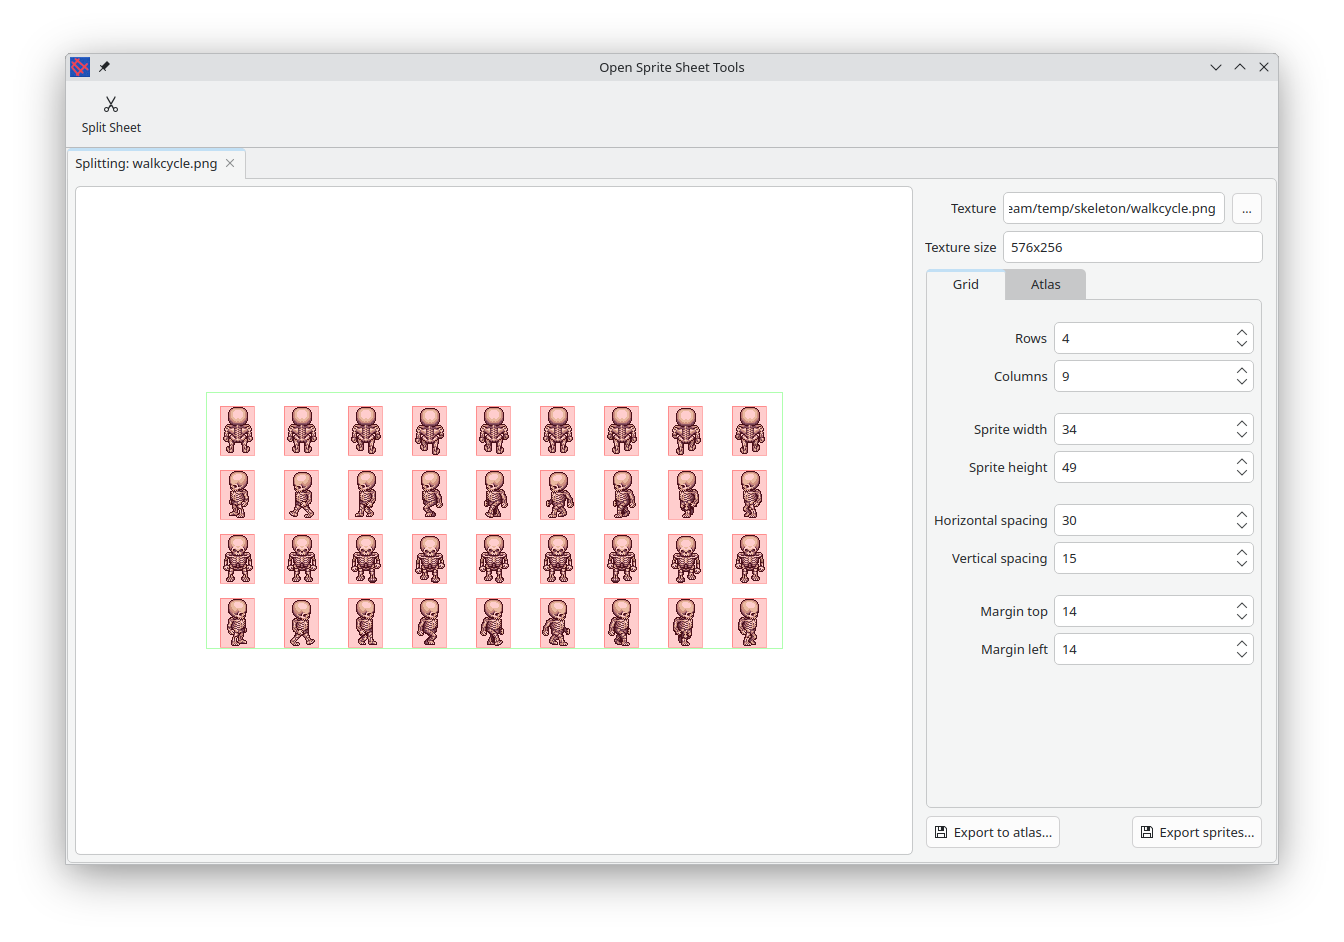
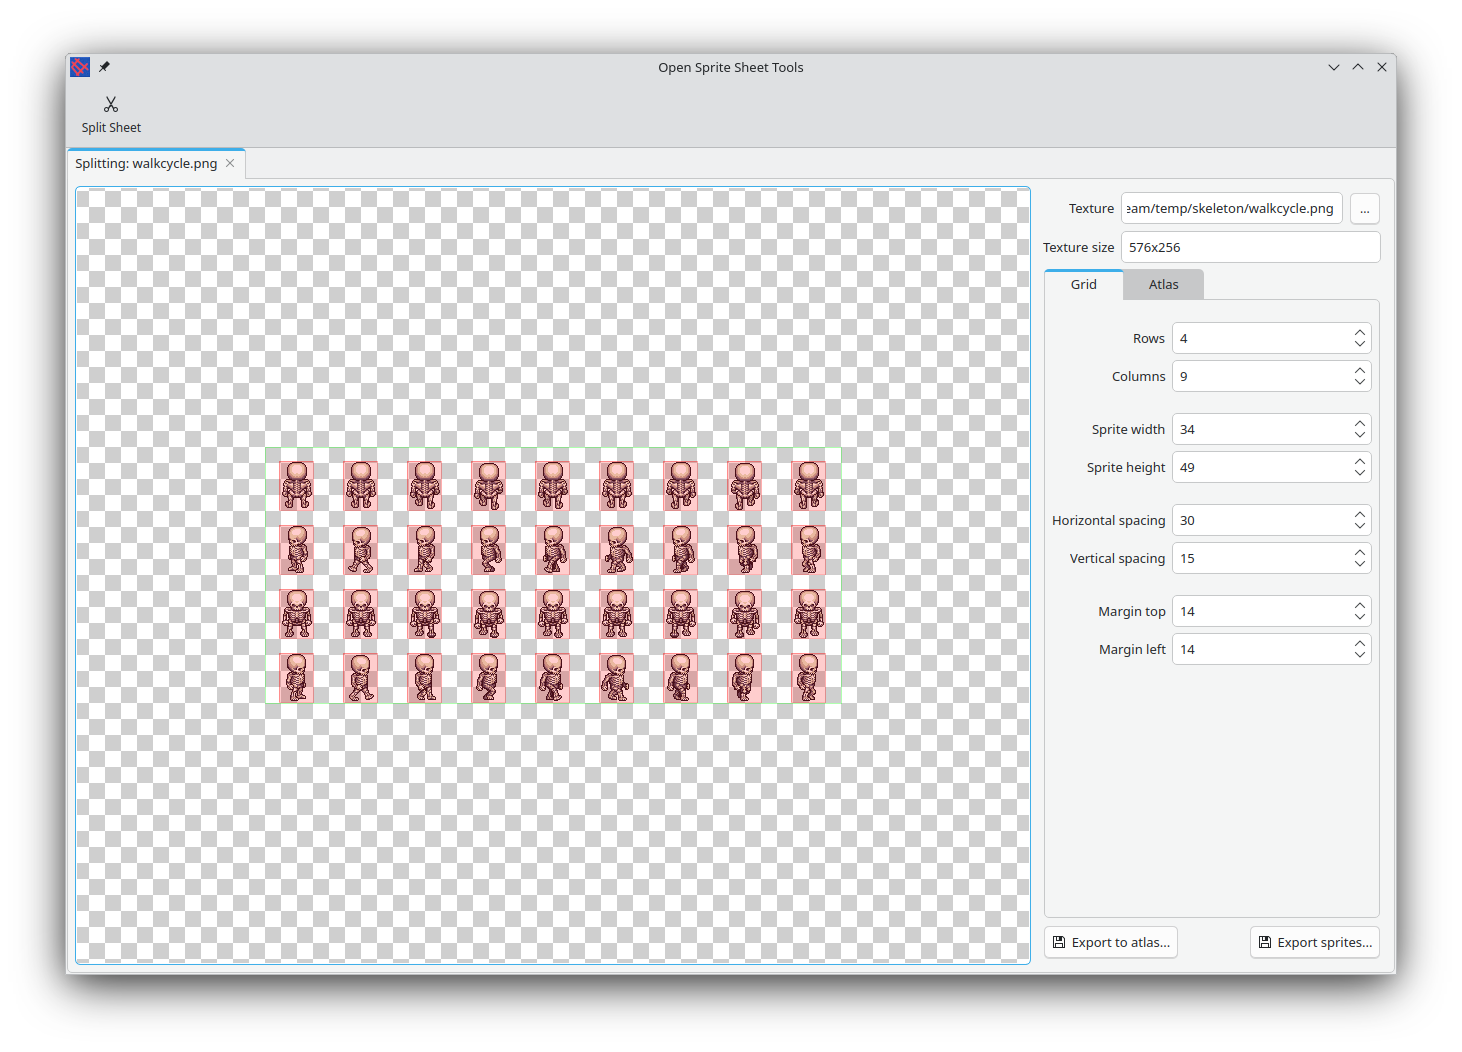
Checkerboard background

diff --git a/src/OpenSpritSheetTools/Gui/SpriteSheetSplitterWidget.cpp b/src/OpenSpritSheetTools/Gui/SpriteSheetSplitterWidget.cpp
@@ -25,6 +25,7 @@
 #include <QImageReader>
 #include <QFileDialog>
 #include <QMessageBox>
+#include <QStyleHints>
 
 SpriteSheetSplitterWidget::SpriteSheetSplitterWidget(QWidget *parent) :
     QWidget(parent),
@@ -36,13 +37,15 @@ SpriteSheetSplitterWidget::SpriteSheetSplitterWidget(QWidget *parent) :
     m_open_image_dialog_filter = QString(tr("All supported image formats (*.%1)"))
         .arg(QImageReader().supportedImageFormats().join(" *."));
     setupUi(this);
+    QStyleHints * style_hints = QGuiApplication::styleHints();
+    applyColorScheme(style_hints->colorScheme());
     m_preview->setScene(new QGraphicsScene(m_preview));
     setExportControlsEnabled(false);
-
     m_grid_splitter = new GridSplitter(this);
     m_atlas_splitter = new AtlasSplitter(this);
     m_current_splitter = m_grid_splitter;
 
+    connect(style_hints, &QStyleHints::colorSchemeChanged, this, &SpriteSheetSplitterWidget::applyColorScheme);
     connect(m_btn_browse_texture_file, &QPushButton::clicked, this, &SpriteSheetSplitterWidget::openTexture);
     connect(m_btn_export_sprites, &QPushButton::clicked, this, &SpriteSheetSplitterWidget::exportSprites);
     connect(m_btn_export_to_atlas, &QPushButton::clicked, this, &SpriteSheetSplitterWidget::exportToAtlas);
@@ -77,6 +80,16 @@ SpriteSheetSplitterWidget::SpriteSheetSplitterWidget(QWidget *parent) :
 SpriteSheetSplitterWidget::~SpriteSheetSplitterWidget()
 {
     delete m_pixmap;
+}
+
+void SpriteSheetSplitterWidget::applyColorScheme(Qt::ColorScheme _scheme)
+{
+    QString brush_texture_file = _scheme == Qt::ColorScheme::Dark
+        ? ":/image/transparent_dark"
+        : ":/image/transparent_light";
+    QBrush brush(Qt::TexturePattern);
+    brush.setTexture(QPixmap(brush_texture_file));
+    m_preview->setBackgroundBrush(brush);
 }
 
 void SpriteSheetSplitterWidget::openTexture()

diff --git a/src/OpenSpritSheetTools/Gui/SpriteSheetSplitterWidget.h b/src/OpenSpritSheetTools/Gui/SpriteSheetSplitterWidget.h
@@ -34,6 +34,7 @@ signals:
     void sheetLoaded(const QString & _filename);
 
 private slots:
+    void applyColorScheme(Qt::ColorScheme _scheme);
     void openTexture();
     void syncWithSplitter();
     void exportSprites();
